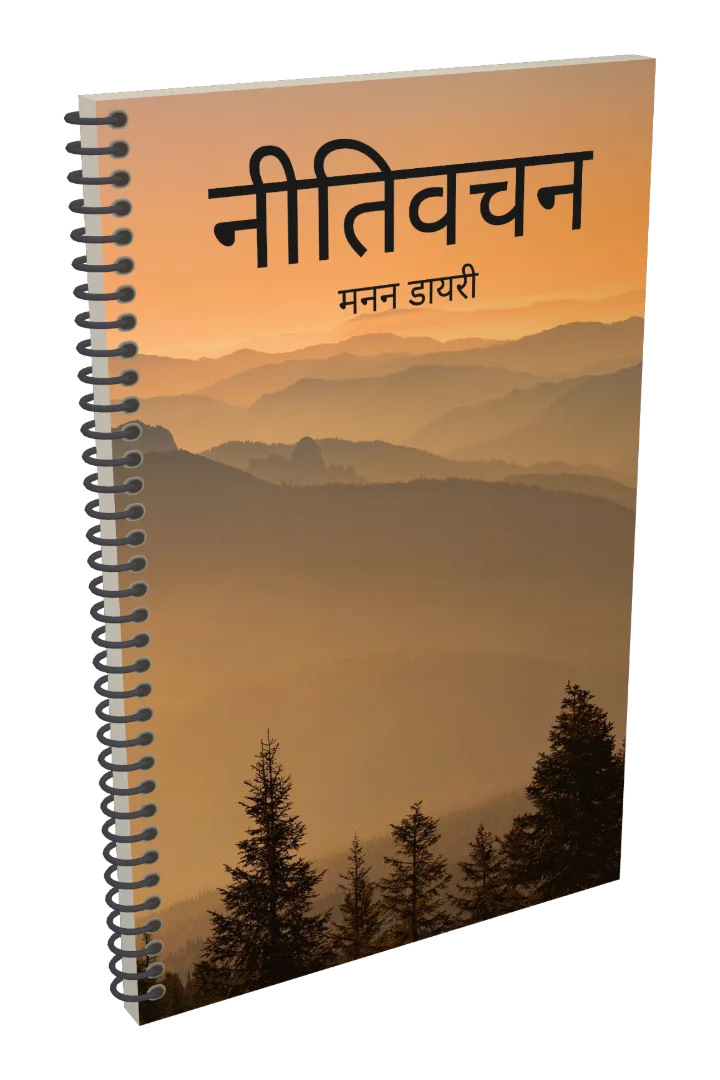
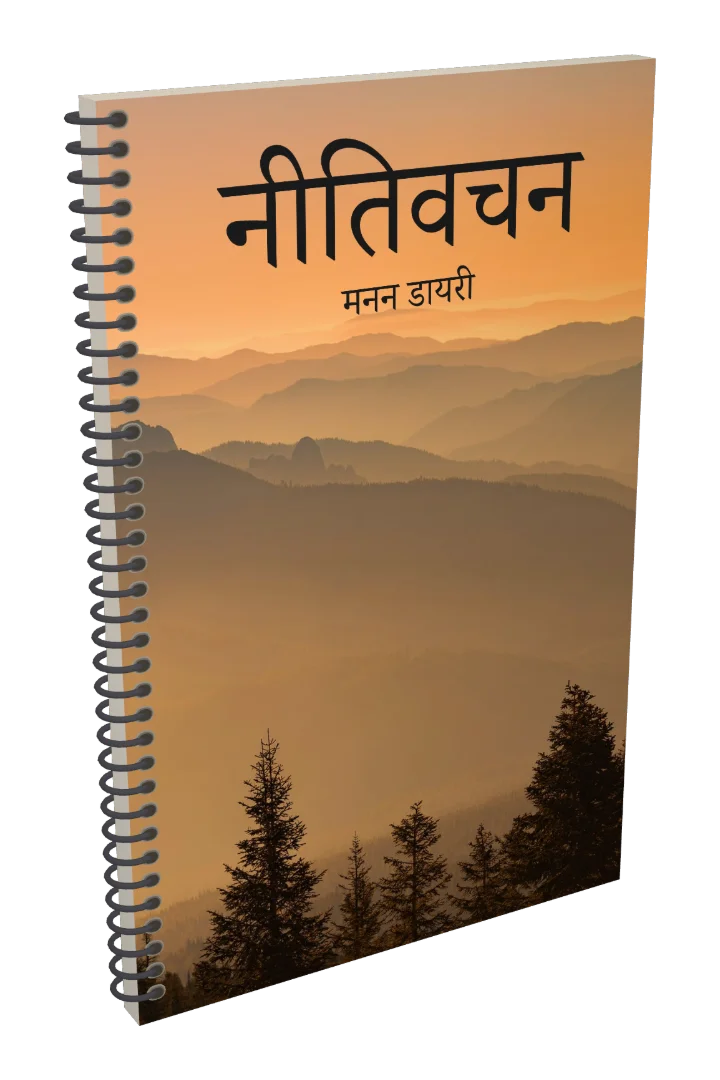
use Noto Serif for the Proverbs example's cover outside English

Changed region(s): [[0.3056, 0.1222, 0.825, 0.3056], [0.275, 0.1528, 0.3056, 0.1833]]

diff --git a/app/src/services/example_designs.ts b/app/src/services/example_designs.ts
@@ -121,7 +121,7 @@ export const EXAMPLE_DESIGNS:ExampleDesign[] = [
 // Vietnamese mixes faces mid-word), whereas from a Noto family bookcover falls back to the Noto
 // font matching each script the text needs, in the same style
 export const NOTO_STAND_INS:Record<string, string> = {
-    'Caveat': 'Noto Sans',
+    'Caveat': 'Noto Serif',
     'Dancing Script': 'Noto Serif',
     'Merriweather': 'Noto Serif',
 }
